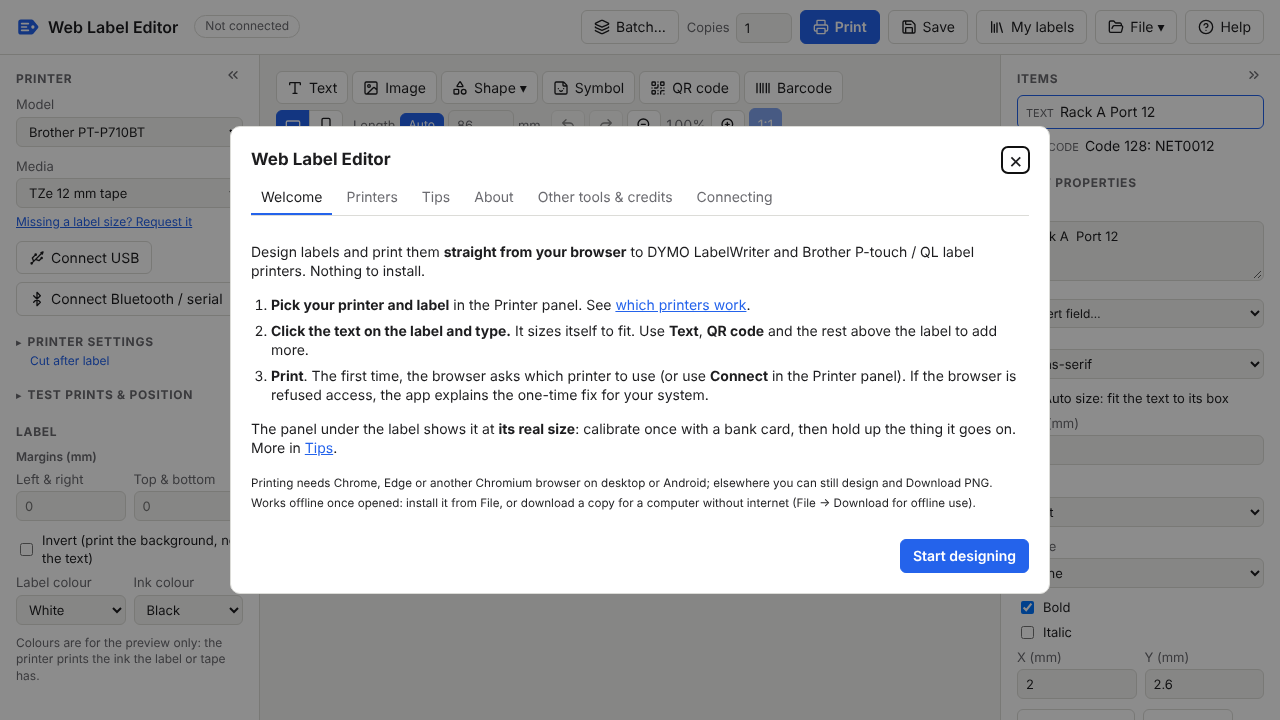
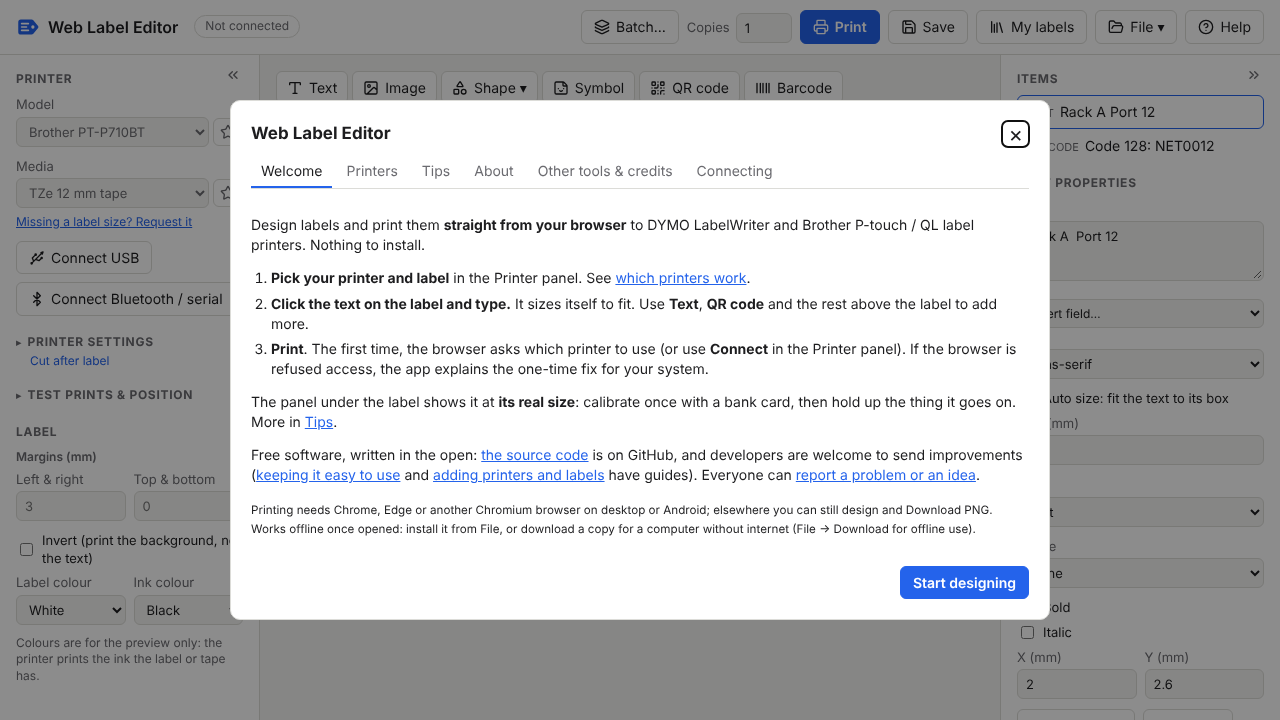
A real footer, a Contribute section, and favourite printers and labels
- The footer moves out of the middle column to a full-width bar at the
  bottom of the page, with clearer links: source code (with the GitHub
  mark), Contribute (opens Help → About), report a problem, offline
  download, licence.
- Help: the Welcome tab says the editor is free software with the source
  on GitHub and links the contributor guides; About gets a Contribute
  section.
- A star beside the Model and Media menus makes the current choice a
  favourite, listed in a Favourites group at the top of the menu. Kept in
  this browser; label favourites show for every printer that has the label.

Claude-Session: https://claude.ai/code/session_01YQFkThD3TEfZZoGyfdA6sY

Changed region(s): [[0.1562, 0.1222, 0.8438, 0.8861]]

diff --git a/src/app.js b/src/app.js
@@ -1309,10 +1309,45 @@ function printerSummary(m) {
   }).filter(Boolean).join(' · ');
 }
 
+// Favourite printers and labels, starred beside their menus and listed at
+// the top of them. Kept in this browser; label ids are shared by a printer
+// family, so a favourite label shows for every printer that has it.
+const FAVS_KEY = 'web-label-editor:favorites';
+let favs = { printers: [], media: [] };
+try {
+  const saved = JSON.parse(localStorage.getItem(FAVS_KEY));
+  favs = { printers: saved?.printers ?? [], media: saved?.media ?? [] };
+} catch { /* none saved */ }
+function toggleFav(kind, id) {
+  const list = favs[kind];
+  favs[kind] = list.includes(id) ? list.filter((x) => x !== id) : [...list, id];
+  try { localStorage.setItem(FAVS_KEY, JSON.stringify(favs)); } catch { /* not saved */ }
+  buildSetup();
+}
+
+// The star beside a menu: filled when the current choice is a favourite.
+function starButton(b, kind, id, what, disabled) {
+  const on = favs[kind].includes(id);
+  if (!b.firstChild) b.append(svgIcon(UI_ICONS.star));
+  b.disabled = disabled;
+  b.setAttribute('aria-pressed', String(on));
+  b.title = disabled ? (what === 'label' ? 'Rolls are kept under My rolls; custom sizes can\'t be favourites' : 'Set by the print server this page is on')
+    : on ? `A favourite ${what}: click to remove it from the top of the list` : `Make this a favourite ${what}, listed at the top`;
+  b.setAttribute('aria-label', b.title);
+  b.onclick = () => toggleFav(kind, id);
+}
+
 function buildSetup() {
   const m = model();
   const printerSel = $('printer');
   const brands = new Map();
+  const favPrinters = favs.printers.filter((id) => MODELS[id]);
+  if (favPrinters.length) {
+    const g = document.createElement('optgroup');
+    g.label = '★ Favourites';
+    g.append(...favPrinters.map((id) => new Option(MODELS[id].status === 'tested' ? MODELS[id].name : `${MODELS[id].name} (experimental)`, id)));
+    brands.set('★', g);
+  }
   for (const [id, mm] of Object.entries(MODELS)) {
     if (!brands.has(mm.brand)) {
       const g = document.createElement('optgroup');
@@ -1320,26 +1355,40 @@ function buildSetup() {
       brands.set(mm.brand, g);
     }
     const label = mm.status === 'tested' ? mm.name : `${mm.name} (experimental)`;
-    brands.get(mm.brand).append(new Option(label, id, false, id === design.printer));
+    brands.get(mm.brand).append(new Option(label, id));
   }
   printerSel.replaceChildren(...brands.values());
+  printerSel.value = design.printer;
+  starButton($('fav-printer'), 'printers', design.printer, 'printer', !!transport?.server);
 
   const mediumSel = $('medium');
   const roll = currentRoll();
   const types = document.createElement('optgroup');
   types.label = 'Label types';
-  types.append(...m.media.filter((md) => md.id !== 'custom' || m.custom)
-    .map((md) => new Option(md.name, md.id, false, !roll && md.id === medium().id)));
+  const usable = m.media.filter((md) => md.id !== 'custom' || m.custom);
+  const favMedia = favs.media.map((id) => usable.find((md) => md.id === id)).filter(Boolean);
+  if (favMedia.length) {
+    const g = document.createElement('optgroup');
+    g.label = '★ Favourites';
+    g.append(...favMedia.map((md) => new Option(md.name, md.id)));
+    mediumSel.replaceChildren(g);
+  } else {
+    mediumSel.replaceChildren();
+  }
+  types.append(...usable.map((md) => new Option(md.name, md.id)));
   const custom = !m.custom && m.media.find((md) => md.id === 'custom');
   if (custom) types.append(new Option('Custom size… (any size, round too)', 'custom', false, !roll && medium().id === 'custom'));
-  mediumSel.replaceChildren(types);
+  mediumSel.append(types);
   const mine = rolls.filter((r) => r.printer === design.printer && m.media.some((md) => md.id === r.medium));
   if (mine.length) {
     const group = document.createElement('optgroup');
     group.label = 'My rolls';
-    group.append(...mine.map((r) => new Option(`${r.name} (${r.id})`, `roll:${r.id}`, false, roll?.id === r.id)));
+    group.append(...mine.map((r) => new Option(`${r.name} (${r.id})`, `roll:${r.id}`)));
     mediumSel.append(group);
   }
+  mediumSel.value = roll ? `roll:${roll.id}` : medium().id;
+  // A roll is already kept under My rolls, and a custom size isn't a label type.
+  starButton($('fav-medium'), 'media', medium().id, 'label', !!roll || medium().id === 'custom');
 
   buildGeneric();
   buildCustomMedia();
@@ -4012,6 +4061,8 @@ function wire() {
   document.addEventListener('keydown', (e) => { if (e.key === 'Escape') fileMenu.open = false; });
   $('btn-help').onclick = () => showAbout();
   $('btn-shortcuts').onclick = () => showAbout('tips');
+  $('btn-contribute').onclick = () => showAbout('about');
+  $('link-source').prepend(svgIcon(ALL_ICONS.github.path, true));
   $('btn-print').onclick = print;
   $('btn-png').onclick = downloadPng;
 

diff --git a/src/about.js b/src/about.js
@@ -42,6 +42,10 @@ function welcome(go, canPrint = true) {
       + 'You can design here and download a PNG.'),
     p('The panel under the label shows it at ', b('its real size'), ': calibrate once with a bank card, then hold up '
       + 'the thing it goes on. More in ', linkTo('tips', 'Tips'), '.'),
+    p('Free software, written in the open: ', link(REPO_URL, 'the source code'), ' is on GitHub, and developers are welcome to '
+      + 'send improvements (', link(`${REPO_URL}/blob/main/docs/UX-CHECKLIST.md`, 'keeping it easy to use'), ' and ',
+    link(`${REPO_URL}/blob/main/docs/MAINTAINING.md`, 'adding printers and labels'), ' have guides). Everyone can ',
+    link(`${REPO_URL}/issues`, 'report a problem or an idea'), '.'),
     p(el('small', {}, 'Printing needs Chrome, Edge or another Chromium browser on desktop or Android; elsewhere you can '
       + 'still design and Download PNG. Works offline once opened: install it from File, or download a copy for a '
       + 'computer without internet (File → Download for offline use).')),
@@ -56,6 +60,13 @@ function about(go) {
     p(b('Why:'), ' the makers\' own label editors don\'t run on Linux, and the Linux tools that exist don\'t handle '
       + 'continuous rolls or auto-sizing text well. Linux users shouldn\'t be second-class citizens with label printers; a '
       + 'web page that talks to the printer directly works the same everywhere.'),
+    el('h3', { textContent: 'Contribute' }),
+    p('The source is on ', link(REPO_URL, 'GitHub'), ' (GPL-3.0). Developers can send improvements directly: ',
+      link(`${REPO_URL}/blob/main/docs/UX-CHECKLIST.md`, 'the UX checklist'), ' says how to keep it easy to use, ',
+      link(`${REPO_URL}/blob/main/docs/MAINTAINING.md`, 'the maintainer guide'), ' how printers and labels get added, and ',
+      link(`${REPO_URL}/blob/main/docs/PRINT-SERVER-API.md`, 'the print server API'), ' how another server can host the editor. '
+      + 'No code needed to help: ', link(`${REPO_URL}/issues`, 'report a problem or an idea'),
+      ', or send in a printer report from the app (Generate report) to get your printer its own entry.'),
     el('h3', { textContent: 'Philosophy' }),
     p(b('Ease of use over features.'), ' Making a label should be quick and obvious: click the text and type, it fits '
       + 'its box, the preview is what prints, and the printer just works. A feature earns its place only if it doesn\'t '
@@ -148,6 +159,7 @@ function tips() {
       li(b('Length'), ' (toolbar, on rolls and tape): Auto ends the label one margin after the last item, so it grows as you '
         + 'add or move things along, which saves tape when the text varies. Type a length, or drag the label\'s right end, when labels '
         + 'must all match (drawer fronts, a batch).'),
+      li('The ', b('★'), ' beside the Model and Media menus makes the current choice a favourite, listed at the top of the menu.'),
       li(b('Margins'), ' (under Label: left & right, top & bottom) keep space clear from the edges (tape and rolls: 3 mm at each end unless you set your own): the guide, ',
         b('Fill safe area'), ' and new items keep inside them, and an Auto-length label grows to keep them.'),
       li('The small ', b('Auto length'), ' and ', b('Auto size'), ' buttons on the label switch those on and off. A QR code, '

diff --git a/index.html b/index.html
@@ -47,10 +47,10 @@
       <button type="button" class="panel-toggle" data-panel="setup" data-name="Printer &amp; label"></button>
       <h2>Printer</h2>
       <label>Model
-        <select id="printer"></select>
+        <span class="pick"><select id="printer"></select><button type="button" id="fav-printer" class="icon star" aria-pressed="false"></button></span>
       </label>
       <label>Media
-        <select id="medium"></select>
+        <span class="pick"><select id="medium"></select><button type="button" id="fav-medium" class="icon star" aria-pressed="false"></button></span>
       </label>
       <a id="request-label" class="small-link" target="_blank" rel="noopener">Missing a label size? Request it</a>
       <div id="generic-box" class="generic-box" hidden></div>
@@ -157,13 +157,6 @@
       <input id="data-file" type="file" accept=".csv,.tsv,.md,.markdown,.json,.rec,.txt,text/csv,application/json,text/markdown,text/plain" hidden>
       <p class="hint">Click text to edit it · drag to move · double-click empty space to add text ·
         <button id="btn-shortcuts" type="button" class="linklike">Shortcuts and tips</button></p>
-      <footer class="site-footer">
-        Web Label Editor ·
-        <a href="https://github.com/mofosyne/web-label-editor" target="_blank" rel="noopener">Source code on GitHub</a> ·
-        <a href="https://github.com/mofosyne/web-label-editor/issues" target="_blank" rel="noopener">Report a problem or idea</a> ·
-        <a href="https://mofosyne.github.io/web-label-editor/web-label-editor.zip" download>Offline download</a> ·
-        Free software, <a href="https://github.com/mofosyne/web-label-editor/blob/main/LICENSE" target="_blank" rel="noopener">GPL-3.0</a>
-      </footer>
     </section>
 
     <aside class="panel" id="props">
@@ -173,6 +166,16 @@
       <div id="item-props"></div>
     </aside>
   </main>
+
+  <footer class="site-footer">
+    <span class="site-name">Web Label Editor <span class="muted">· free software, <a href="https://github.com/mofosyne/web-label-editor/blob/main/LICENSE" target="_blank" rel="noopener">GPL-3.0</a></span></span>
+    <nav aria-label="About this project">
+      <a id="link-source" href="https://github.com/mofosyne/web-label-editor" target="_blank" rel="noopener" title="Read the source code, or send an improvement">Source code on GitHub</a>
+      <button id="btn-contribute" type="button" class="linklike" title="How to help: improvements, printers, labels">Contribute</button>
+      <a href="https://github.com/mofosyne/web-label-editor/issues" target="_blank" rel="noopener">Report a problem or idea</a>
+      <a href="https://mofosyne.github.io/web-label-editor/web-label-editor.zip" download>Offline download</a>
+    </nav>
+  </footer>
 
   <dialog id="help-dialog" class="help" aria-label="Printer connection help"></dialog>
   <dialog id="data-dialog" class="help data-paste" aria-label="Paste data"></dialog>

diff --git a/style.css b/style.css
@@ -48,6 +48,9 @@
 * { box-sizing: border-box; }
 
 body {
+  min-height: 100vh;
+  display: flex;
+  flex-direction: column;
   margin: 0;
   background: var(--bg);
   color: var(--text);
@@ -170,7 +173,7 @@ dialog.help .row { justify-content: flex-end; margin: 0; }
   display: grid;
   grid-template-columns: var(--left, 260px) minmax(0, 1fr) var(--right, 280px);
   gap: 0;
-  min-height: calc(100vh - 54px);
+  flex: 1;
 }
 
 .panel {
@@ -341,8 +344,17 @@ details.menu .menu-list a { color: inherit; text-decoration: none; padding: 7px 
 .topbar h1 .logo { display: block; }
 .dims.caution { color: var(--warn-text); }
 .hint { color: var(--muted); font-size: 12px; margin: 0; }
-.site-footer { color: var(--muted); font-size: 12px; margin-top: auto; padding-top: 24px; }
-.site-footer a { color: inherit; }
+/* A real footer: the full width, at the bottom of the page. */
+.site-footer {
+  display: flex; flex-wrap: wrap; align-items: center; justify-content: space-between; gap: 6px 24px;
+  padding: 12px 16px; background: var(--panel); border-top: 1px solid var(--border);
+  font-size: 13px; color: var(--text);
+}
+.site-footer .muted { color: var(--muted); }
+.site-footer nav { display: flex; flex-wrap: wrap; gap: 4px 18px; align-items: center; }
+.site-footer a, .site-footer .linklike { color: var(--accent); }
+.site-footer .muted a { color: inherit; }
+.site-footer svg.ico { margin-right: 5px; }
 
 .item-list { list-style: none; padding: 0; margin: 0 0 12px; }
 .item-list li {
@@ -457,3 +469,11 @@ a.button { display: inline-block; text-decoration: none; }
 .len-auto { padding: 3px 8px; font-size: 12px; }
 .len-auto[aria-pressed="true"] { background: var(--accent); color: var(--accent-text); border-color: var(--accent); }
 aside h3.sub { font-size: 12px; font-weight: 600; color: var(--muted); margin: 8px 0 4px; }
+
+/* A menu with a star beside it: favourites to the top of the list. */
+.pick { display: flex; gap: 4px; align-items: center; margin-top: 3px; }
+.pick select { flex: 1; min-width: 0; margin-top: 0 !important; }
+.pick .star { flex: none; padding: 5px 6px; color: var(--muted); }
+.pick .star[aria-pressed="true"] { color: #e0a100; }
+.pick .star[aria-pressed="true"] svg { fill: currentColor; }
+.pick .star:disabled { opacity: .4; }

diff --git a/src/lucide.js b/src/lucide.js
@@ -38,6 +38,7 @@ export const UI_ICONS = {
   bigger: "M14 11l4-4 4 4M18 16V7M2 16l4.039-9.69a.5.5 0 0 1 .923 0L11 16M3.304 13h6.392",
   usb: "M9 7a1 1 0 1 0 2 0a1 1 0 1 0 -2 0M3 20a1 1 0 1 0 2 0a1 1 0 1 0 -2 0M4.7 19.3 19 5M21 3l-3 1 2 2ZM9.26 7.68 5 12l2 5M10 14l5 2 3.5-3.5M18 12l1-1 1 1-1 1Z",
   bluetooth: "M7 7l10 10-5 5V2l5 5L7 17",
+  star: "M11.525 2.295a.53.53 0 0 1 .95 0l2.31 4.679a2.123 2.123 0 0 0 1.595 1.16l5.166.756a.53.53 0 0 1 .294.904l-3.736 3.638a2.123 2.123 0 0 0-.611 1.878l.882 5.14a.53.53 0 0 1-.771.56l-4.618-2.428a2.122 2.122 0 0 0-1.973 0L6.396 21.01a.53.53 0 0 1-.77-.56l.881-5.139a2.122 2.122 0 0 0-.611-1.879L2.16 9.795a.53.53 0 0 1 .294-.906l5.165-.755a2.122 2.122 0 0 0 1.597-1.16z",
   new: "M6 22a2 2 0 0 1-2-2V4a2 2 0 0 1 2-2h8a2.4 2.4 0 0 1 1.704.706l3.588 3.588A2.4 2.4 0 0 1 20 8v12a2 2 0 0 1-2 2zM14 2v5a1 1 0 0 0 1 1h5M9 15h6M12 18v-6",
   saveFile: "M6 22a2 2 0 0 1-2-2V4a2 2 0 0 1 2-2h8a2.4 2.4 0 0 1 1.704.706l3.588 3.588A2.4 2.4 0 0 1 20 8v12a2 2 0 0 1-2 2zM14 2v5a1 1 0 0 0 1 1h5M12 18v-6M9 15l3 3 3-3",
   openFile: "M6 22a2 2 0 0 1-2-2V4a2 2 0 0 1 2-2h8a2.4 2.4 0 0 1 1.704.706l3.588 3.588A2.4 2.4 0 0 1 20 8v12a2 2 0 0 1-2 2zM14 2v5a1 1 0 0 0 1 1h5M12 12v6M15 15l-3-3-3 3",

diff --git a/README.md b/README.md
@@ -282,6 +282,9 @@ The app has its own welcome page and **Help** with the same information.
   fits it to its box; a QR code, barcode, symbol or image fills the safe
   area across the label (staying where you put it along it) and follows it
   when the tape, label or margins change (on a roll, what comes after it moves along).
+- **Favourite printers and labels:** the ★ beside the Model and Media menus
+  puts the current choice in a Favourites group at the top of the list, for
+  the few you actually use among the dozens listed. Kept in this browser.
 - **Fold the side panels away** (« ») for more room on a small screen;
   the app remembers.
 - **Your own margins:** *Left & right* and *Top & bottom* (Margins, under
